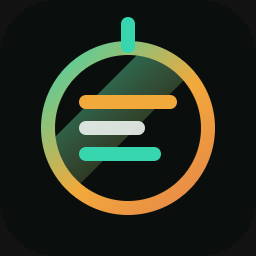
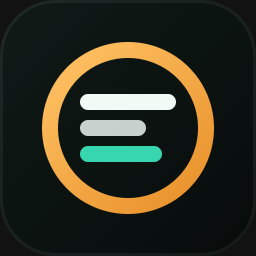
Rework Marketplace presentation for 0.1.1
The published listing carried the first-draft description, no website
link, and no demo. This is the pass to make it read like a product.

Logo: replaced the full-spectrum gradient sweep with a single amber
identity colour and one teal accent bar. At 128px in a marketplace grid a
rainbow gradient reads as decoration rather than as a considered mark;
checked the result at 100px, 42px and 26px on both light and dark grounds.

Description: "Runtime visibility for ASP.NET Core IMemoryCache" leads with
what the tool provides instead of an instruction to the reader.

Demo: added docs/images/demo.gif — a fourteen second loop showing dotnet
run, the startup log announcing CacheLens, and the cache filling in with
expiry countdowns that visibly tick down. Rendered frame by frame from a
deterministic timeline rather than captured from a live animation, so no
frame lands mid-transition.

Also wires up the live site at cache-lens.vercel.app as homepage, a docs
badge, a dark gallery banner matching the brand ground, and broader
keywords. The README now uses absolute raw.githubusercontent URLs, since
relative paths do not resolve on the Marketplace, and a PNG rather than
an SVG logo, since the Marketplace rejects SVG image sources.

diff --git a/packages/vscode-extension/README.md b/packages/vscode-extension/README.md
@@ -1,26 +1,59 @@
+<div align="center">
+
+<img src="https://raw.githubusercontent.com/kumaresh-rgb/CacheLens/main/packages/vscode-extension/media/icon-128.png" alt="CacheLens" width="84" height="84" />
+
 # CacheLens
 
-**See what's actually inside your .NET cache.**
+**Runtime visibility for ASP.NET Core `IMemoryCache`.**
 
-`IMemoryCache` won't tell you what it's holding. CacheLens shows you every key with its value,
-size, expiry and hit count — live, in VS Code, without changing a single line of your caching
-code.
+Browse cached keys, inspect values, and track expiration and hit counts — live, without leaving
+VS Code.
+
+[Website](https://cache-lens.vercel.app) · [Documentation](https://github.com/kumaresh-rgb/CacheLens/blob/main/docs/INSTALLATION.md) · [Source](https://github.com/kumaresh-rgb/CacheLens) · [Report an issue](https://github.com/kumaresh-rgb/CacheLens/issues)
+
+</div>
 
 ---
 
-## The problem
+## See it work
 
-.NET 9 added `MemoryCache.Keys`, which gives you a list of key objects. Useful — and that is
-where it stops. No values, no expiry, no sizes, no per-key hit counts. It sits on the concrete
-`MemoryCache` class rather than the `IMemoryCache` interface your code is handed by dependency
-injection, and on .NET 8 it does not exist at all.
+![Running an app and watching its cache appear in CacheLens](https://raw.githubusercontent.com/kumaresh-rgb/CacheLens/main/docs/images/demo.gif)
 
-So you end up keeping a shadow list of every key you ever set — which drifts out of sync the
-moment an entry expires on its own, and still tells you nothing about the entries themselves.
+Start your app, and it appears on its own — no host, port, or token to configure anywhere.
 
-## The fix
+---
 
-Two lines in `Program.cs`:
+## Why this exists
+
+.NET 9 added `MemoryCache.Keys`, which returns a list of key objects. Useful, and that is where
+it stops:
+
+- **Keys only** — no values, no expiry, no sizes, no per-key hit counts.
+- **Wrong type** — it sits on the concrete `MemoryCache` class, not the `IMemoryCache` interface
+  your code receives from dependency injection.
+- **Absent on .NET 8** — still a supported LTS release.
+
+So teams keep a shadow list of every key they set, which drifts out of sync the moment an entry
+expires on its own — and still tells you nothing about the entries themselves.
+
+CacheLens closes that gap.
+
+---
+
+## Getting started
+
+CacheLens is two halves, and you need both. This extension is the viewer; a NuGet package
+instruments your application.
+
+**1 — Install this extension.**
+
+**2 — Add the package** to the app you want to inspect:
+
+```bash
+dotnet add package CacheLens.AspNetCore
+```
+
+**3 — Register it** in `Program.cs`:
 
 ```csharp
 if (builder.Environment.IsDevelopment())
@@ -28,7 +61,7 @@ if (builder.Environment.IsDevelopment())
     builder.Services.AddCacheLens();
 }
 
-// ...
+var app = builder.Build();
 
 if (app.Environment.IsDevelopment())
 {
@@ -36,90 +69,64 @@ if (app.Environment.IsDevelopment())
 }
 ```
 
-Run your app, open the CacheLens panel, and every key is there.
+Your existing `Set` / `Get` / `GetOrCreate` calls stay exactly as they are — CacheLens wraps the
+cache from the outside.
 
-**Your existing `Set` / `Get` / `GetOrCreate` calls stay exactly as they are.** CacheLens wraps
-your cache from the outside.
-
----
-
-## What you get
-
-- **Live key browser** — every tracked key with size, time-to-live, and hit count at a glance
-- **Value inspector** — click a key to read its value as formatted JSON, with full metadata
-- **Expiry countdowns** — watch absolute and sliding expirations tick down in real time
-- **Evict without restarting** — drop one key or clear everything, then watch it repopulate
-- **Snapshot export** — save the whole cache state to JSON for a bug report
-- **Zero configuration** — your app announces itself, the extension finds it. No ports or tokens
-  to type anywhere
-
----
-
-## Getting started
-
-**1. Install this extension.**
-
-**2. Add the companion NuGet package** to the app you want to inspect:
-
-```bash
-dotnet add package CacheLens.AspNetCore
-```
-
-Both halves are required — the package watches your cache, this extension displays it. Supports
-**.NET 8** and **.NET 9**.
-
-**3. Add the two `if` blocks** shown above to `Program.cs`.
-
-**4. Run your app.** You should see this in the console:
+**4 — Run your app.** You should see:
 
 ```
 CacheLens is tracking this app's caches at http://localhost:5225
 ```
 
-**5. Open the CacheLens icon** in the VS Code sidebar. Your app appears within a few seconds.
+**5 — Open the CacheLens panel** in the Activity Bar. Your app appears within a few seconds.
 
-> The folder open in VS Code must contain a `.csproj`, `.sln`, or `.slnx` file — the extension
-> stays asleep otherwise, so it never slows down non-.NET work.
+> The folder open in VS Code must contain a `.csproj`, `.sln`, or `.slnx`. The extension stays
+> dormant otherwise, so it never slows down non-.NET work.
 
-Full guide: **[Installation and usage](https://github.com/kumaresh-rgb/CacheLens/blob/main/docs/INSTALLATION.md)**
+Full walkthrough: **[Installation guide](https://github.com/kumaresh-rgb/CacheLens/blob/main/docs/INSTALLATION.md)** ·
+Interactive version: **[cache-lens.vercel.app](https://cache-lens.vercel.app/#how)**
 
 ---
 
-## Commands
+## Capabilities
+
+| | |
+|---|---|
+| **Live key browser** | Every tracked key with size, time-to-live, and hit count |
+| **Value inspector** | Formatted JSON with full entry metadata |
+| **Expiry countdowns** | Absolute and sliding expirations, updating in place |
+| **Eviction** | Drop a single key or clear the cache without restarting |
+| **Snapshot export** | Save the full cache state to JSON for a bug report |
+| **Zero configuration** | Applications are discovered automatically on the local machine |
+
+### Commands
 
 Available from the Command Palette (`Ctrl+Shift+P` / `Cmd+Shift+P`):
 
-| Command | What it does |
+| Command | Description |
 |---|---|
-| `CacheLens: Refresh` | Fetch the latest cache state now |
-| `CacheLens: Clear All Entries` | Evict everything in the selected app's cache |
-| `CacheLens: Evict` | Remove one key |
-| `CacheLens: Export Snapshot as JSON...` | Save the current state to a file |
-| `CacheLens: Add Remote Connection...` | Connect to an app on another machine |
+| `CacheLens: Refresh` | Fetch the current cache state |
+| `CacheLens: Clear All Entries` | Evict everything in the selected application |
+| `CacheLens: Evict` | Remove a single key |
+| `CacheLens: Export Snapshot as JSON...` | Write the current state to a file |
+| `CacheLens: Add Remote Connection...` | Connect to an application on another host |
 | `CacheLens: Copy Value` | Copy a cached value to the clipboard |
 
 ---
 
-## Built for safety
+## Security model
 
-Displaying cache contents is a data leak waiting to happen, so CacheLens fails closed by default:
+Exposing cache contents is a data-disclosure risk, so CacheLens fails closed by default:
 
-| Protection | What it means |
+| Control | Behaviour |
 |---|---|
-| **Development only** | The documented setup keeps it off outside development |
-| **Loopback only** | Requests from other machines are refused, regardless of what address your app binds to |
-| **Fresh token per run** | Each process generates a random bearer token; the extension reads it automatically |
-| **Secrets redacted** | Keys containing `password`, `token`, `secret` and similar send metadata only, never the value |
-| **Large values capped** | Anything over 64 KB is reported by size instead of being sent to your editor |
+| **Environment gated** | The documented setup keeps it disabled outside development |
+| **Loopback only** | Requests from other hosts are rejected regardless of the bind address |
+| **Per-process token** | A fresh bearer token is generated at startup and read automatically |
+| **Redaction** | Keys matching `password`, `token`, `secret` and similar return metadata only |
+| **Payload ceiling** | Values above 64 KB are reported by size rather than transmitted |
 
-Note that **Export Snapshot writes real cached values to disk** — check the contents before
-committing or sharing that file.
-
----
-
-## Settings
-
-Configured in your .NET app, not in VS Code settings:
+Configured in your application, not in VS Code settings:
 
 ```csharp
 builder.Services.AddCacheLens(options =>
@@ -130,24 +137,28 @@ builder.Services.AddCacheLens(options =>
 });
 ```
 
----
-
-## Current limitations
-
-Being upfront about what this does not do yet:
-
-- **Only `IMemoryCache`.** `IDistributedCache` (Redis, SQL Server) and .NET 9's `HybridCache` are
-  planned but not built.
-- **Refreshes every 3 seconds** rather than instantly. Live push updates are planned.
-- **ASP.NET Core apps only.** Console apps and worker services are not supported yet.
-- Entries cached *before* CacheLens started are not tracked.
+**Note:** *Export Snapshot* writes real cached values to disk. Review the file before sharing it.
 
 ---
 
-## Links
+## Requirements and current scope
 
-- **Source code:** [github.com/kumaresh-rgb/CacheLens](https://github.com/kumaresh-rgb/CacheLens)
-- **Report an issue:** [github.com/kumaresh-rgb/CacheLens/issues](https://github.com/kumaresh-rgb/CacheLens/issues)
-- **Architecture notes:** [docs/architecture.md](https://github.com/kumaresh-rgb/CacheLens/blob/main/docs/architecture.md)
+| | |
+|---|---|
+| .NET | 8.0 or 9.0 |
+| Application type | ASP.NET Core |
+| VS Code | 1.85 or later |
 
-MIT licensed. Free to use, modify, and distribute.
+Not yet supported, stated plainly:
+
+- **`IMemoryCache` only.** `IDistributedCache` and `HybridCache` are planned.
+- **Polls every 3 seconds** while the view is visible; live push updates are planned.
+- **ASP.NET Core only** — console applications and worker services are not yet covered.
+- Entries cached before CacheLens starts are not tracked.
+
+Roadmap and design notes: **[architecture.md](https://github.com/kumaresh-rgb/CacheLens/blob/main/docs/architecture.md)**
+
+---
+
+MIT licensed. Contributions welcome — see
+[CONTRIBUTING.md](https://github.com/kumaresh-rgb/CacheLens/blob/main/CONTRIBUTING.md).
